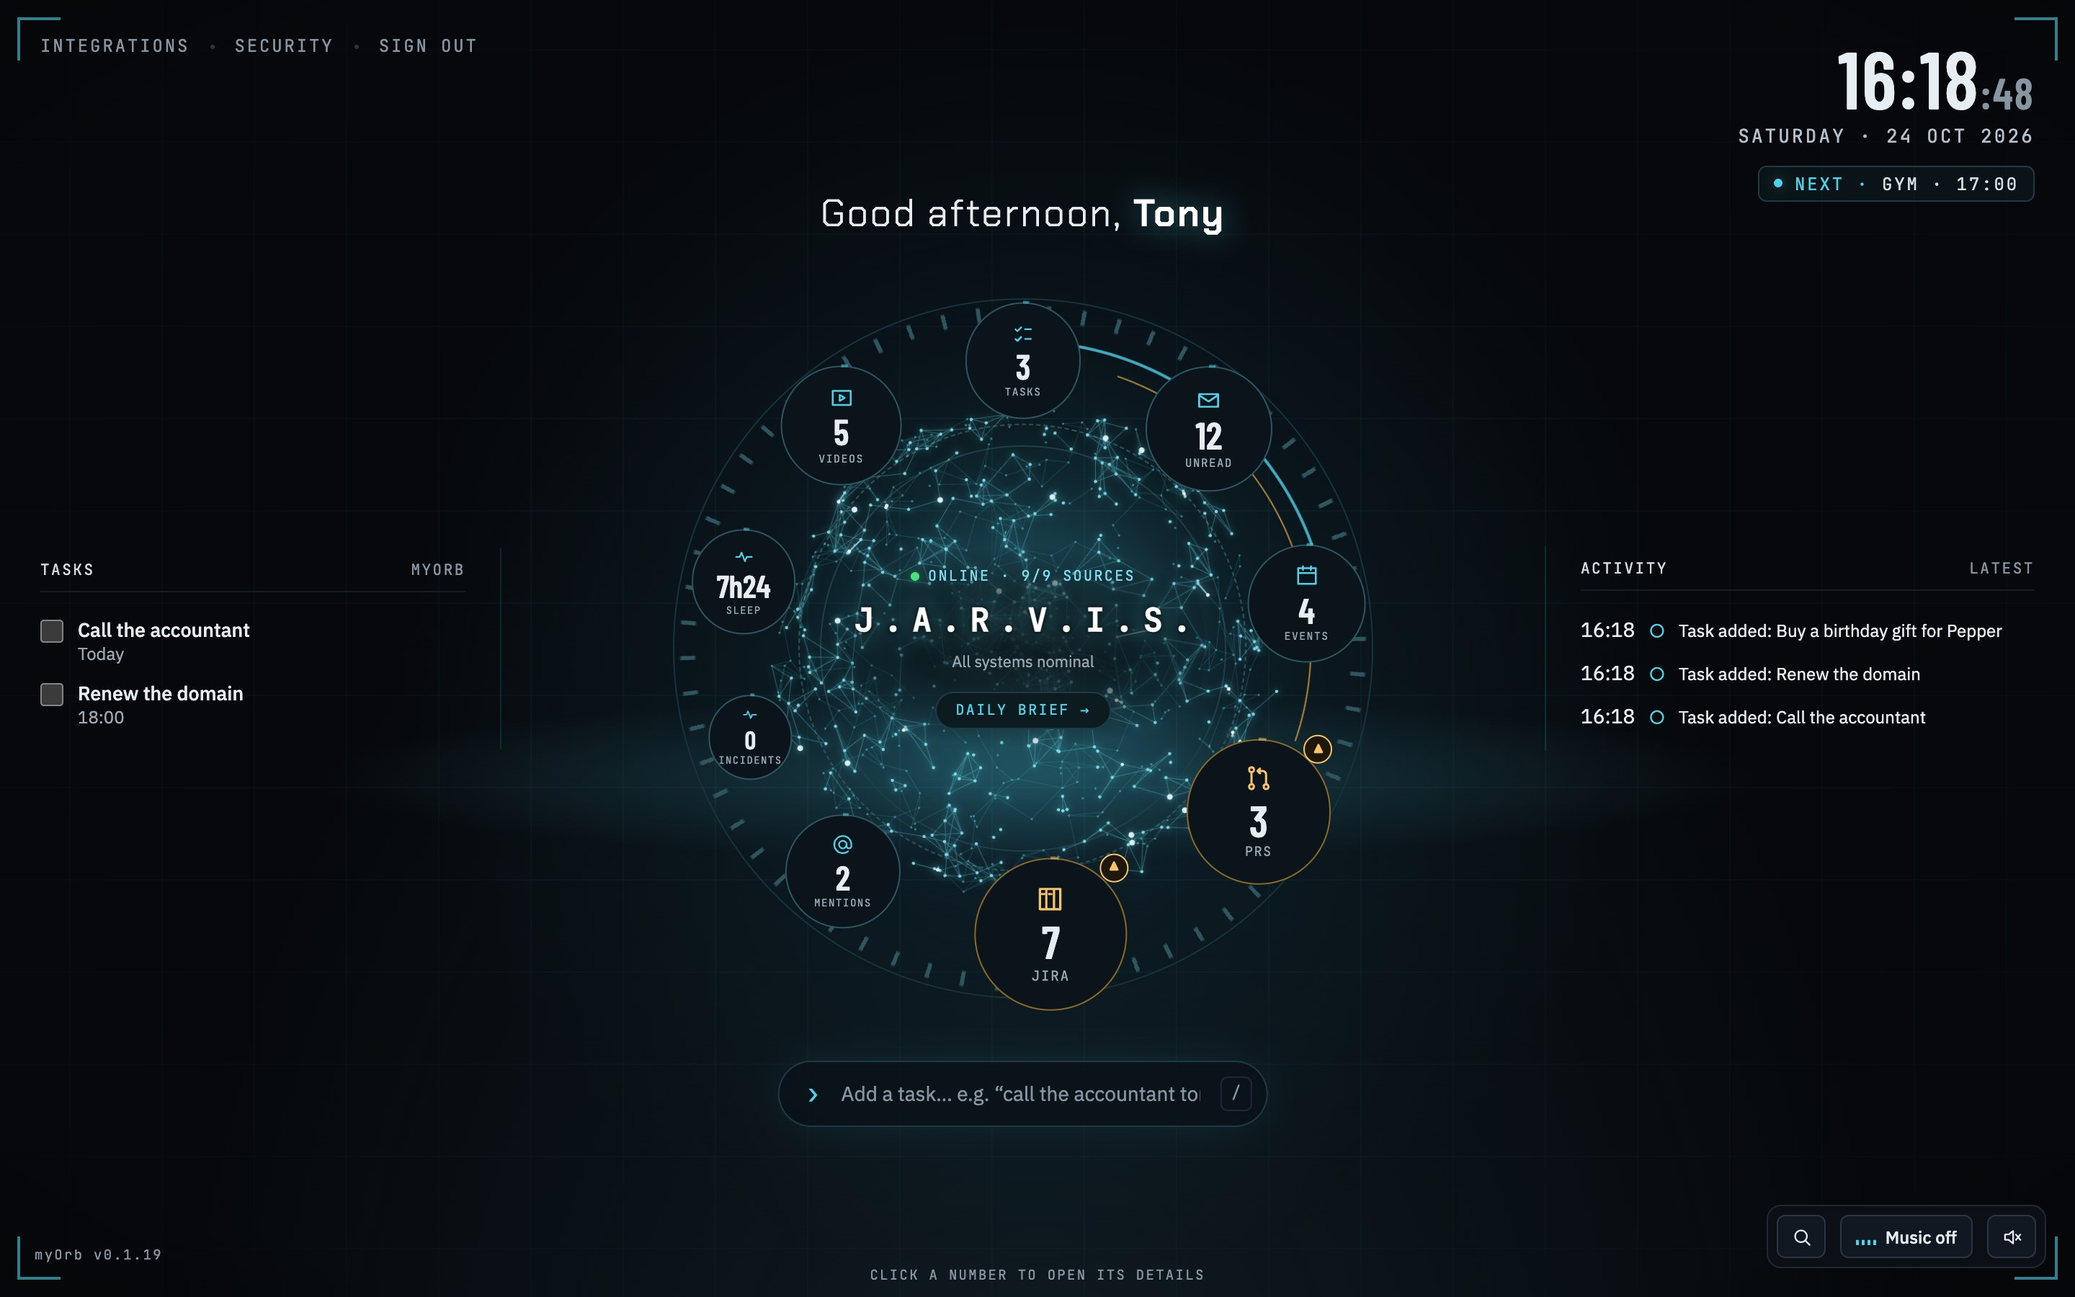
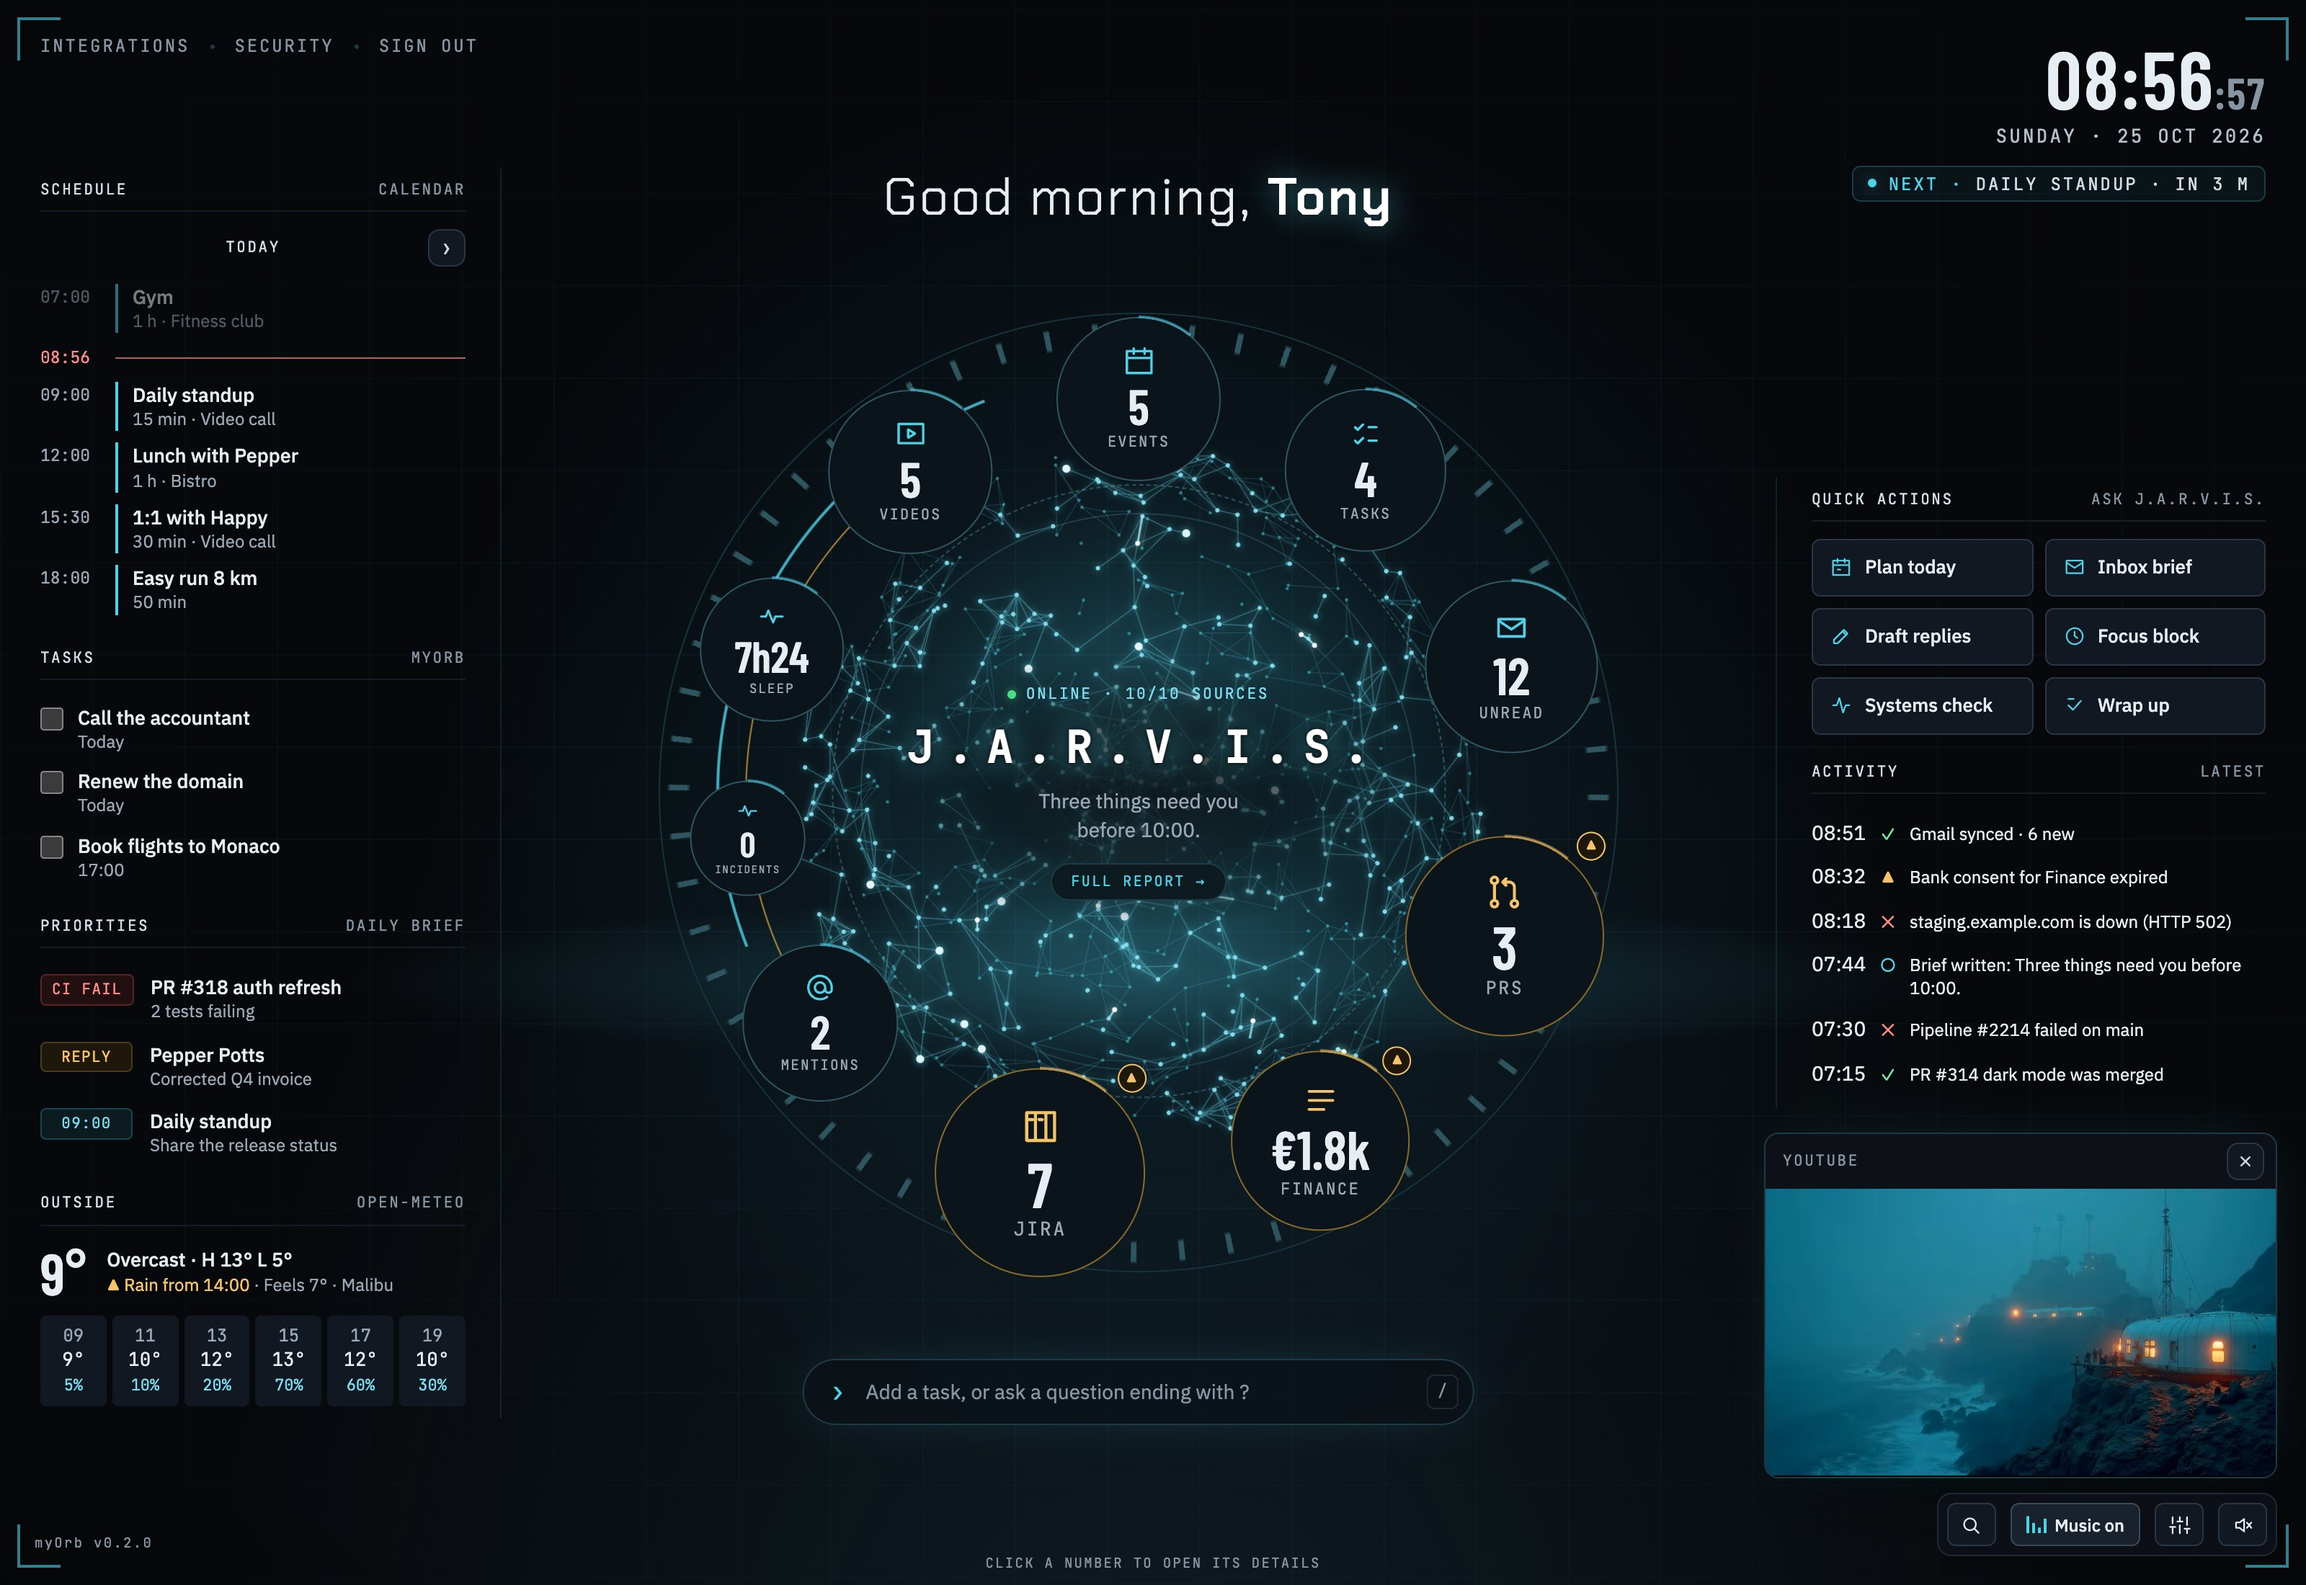
Version 0.2.0: priorities and quick actions on the welcome screen (#46)
- Priorities: today's brief's priorities in the side column, each opening
  the report (a built-in "brief" plugin).
- Quick actions: six common questions for Ask, one click away, shown when
  Claude is connected.
- The command line's placeholder fits the field.
- README: a new welcome screen screenshot with sample data.

Claude-Session: https://claude.ai/code/session_01WepqR9ZDDWQ5SWvBengdYi

diff --git a/src/myorb/web/templates/welcome.html b/src/myorb/web/templates/welcome.html
@@ -103,7 +103,7 @@
         <form class="command-bar" hx-post="/command" hx-target="#command-result" hx-on::after-request="if (event.detail.successful) this.reset()"{% if can_ask %} data-ask{% endif %}>
           <span class="command-prompt" aria-hidden="true">›</span>
           <label class="visually-hidden" for="command-input">{{ "Add a task or ask a question" if can_ask else "Add a task" }}</label>
-          <input id="command-input" name="text" placeholder="{% if can_ask %}Add a task, or ask {{ assistant }} something ending with ?{% else %}Add a task… e.g. “call the accountant tomorrow 10:00”{% endif %}" autocomplete="off" required>
+          <input id="command-input" name="text" placeholder="{% if can_ask %}Add a task, or ask a question ending with ?{% else %}Add a task, e.g. “call Anna tomorrow 10:00”{% endif %}" autocomplete="off" required>
           <kbd class="command-key" title="Press / to type here">/</kbd>
         </form>
         <div class="label command-result" id="command-result" role="status" aria-live="polite"></div>
@@ -145,6 +145,15 @@
     </div>
 
     <section class="side side-right" aria-label="Activity">
+      {% if can_ask %}
+      {# Questions asked often, one click away; each opens the Ask dialog with its answer. #}
+      <div class="side-head"><span class="label strong">Quick actions</span><span class="label">Ask {{ assistant }}</span></div>
+      <div class="quick-actions">
+        {% for label, question, path in quick_actions %}
+        <button type="button" class="btn quick-action" data-ask-quick="{{ question }}" title="{{ question }}"><svg width="15" height="15" viewBox="0 0 24 24" fill="none" stroke="currentColor" stroke-width="1.8" stroke-linecap="round" stroke-linejoin="round" aria-hidden="true"><path d="{{ path }}"/></svg>{{ label }}</button>
+        {% endfor %}
+      </div>
+      {% endif %}
       <div class="side-head"><span class="label strong">Activity</span><span class="label">Latest</span></div>
       <div hx-get="/activity" hx-trigger="load, every 60s, myorb:refresh from:body, myorb:brief from:body">
         <p class="t2">Loading…</p>

diff --git a/src/myorb/web/static/welcome.css b/src/myorb/web/static/welcome.css
@@ -1377,6 +1377,58 @@ button.row-btn {
   color: var(--fail);
 }
 
+/* Quick actions: questions for Ask, two to a row */
+
+.quick-actions {
+  display: grid;
+  grid-template-columns: repeat(2, minmax(0, 1fr));
+  gap: 8px;
+}
+
+.quick-action {
+  justify-content: flex-start;
+  gap: 9px;
+  min-width: 0;
+  height: 40px;
+  padding: 0 12px;
+  white-space: nowrap;
+}
+
+.quick-action svg {
+  flex: none;
+  color: var(--accent);
+}
+
+/* Priorities from today's brief; each opens the report */
+
+.priority {
+  display: flex;
+  gap: 12px;
+  align-items: flex-start;
+  width: 100%;
+  padding: 6px 0;
+  border: 0;
+  background: none;
+  color: inherit;
+  font: inherit;
+  text-align: left;
+  cursor: pointer;
+}
+
+.priority .badge {
+  flex: none;
+  justify-content: center;
+  min-width: 64px;
+}
+
+.priority-text {
+  min-width: 0;
+}
+
+.priority:hover .t1 {
+  color: var(--accent);
+}
+
 /* Brief: headline and button in the orb's core, and the report dialog */
 
 .core:has(.brief-headline) #core-line {

diff --git a/src/myorb/brief/templates/priorities.html b/src/myorb/brief/templates/priorities.html
@@ -1,0 +1,14 @@
+{% if brief %}
+{% for item in brief.content.priorities %}
+<button type="button" class="priority" data-open-report>
+  <span class="badge badge-{{ item.tone }}">{{ item.tag }}</span>
+  <span class="priority-text"><span class="t1">{{ item.title }}</span>{% if item.detail %}<span class="t2">{{ item.detail }}</span>{% endif %}</span>
+</button>
+{% else %}
+<p class="t2">Nothing needs you today.</p>
+{% endfor %}
+{% elif configured %}
+<p class="t2">No brief yet today.</p>
+{% else %}
+<p class="t2">Connect Claude for a daily brief with what needs you. <a href="/integrations/claude">Connect</a></p>
+{% endif %}

diff --git a/src/myorb/web/static/welcome.js b/src/myorb/web/static/welcome.js
@@ -574,6 +574,15 @@
     askQuestion(question);
   });
 
+  // A quick action asks its question in a new conversation.
+  document.addEventListener("click", (event) => {
+    const quick = event.target.closest("[data-ask-quick]");
+    if (!quick) return;
+    ask = { conversation: null, messages: [] };
+    saveAsk();
+    askQuestion(quick.dataset.askQuick);
+  });
+
   document.addEventListener("click", (event) => {
     if (!event.target.closest("[data-ask-new]")) return;
     ask = { conversation: null, messages: [] };

diff --git a/tests/test_brief.py b/tests/test_brief.py
@@ -10,6 +10,7 @@ from fastapi.testclient import TestClient
 from sqlalchemy import select
 
 from myorb.brief.models import Brief, ClaudeUsage
+from myorb.brief.plugin import BriefPlugin
 from myorb.brief.service import kind_for
 from myorb.brief.spend import cost_usd, tokens
 from myorb.brief.writer import BriefError, facts_prompt
@@ -283,6 +284,34 @@ def test_generate_brief(client: TestClient, claude: FakeClaude):
     assert "Water plants" in report
     assert 'data-brief-language="en"' in report
     assert "Claude Sonnet 5.5" in report
+
+
+def test_priorities_panel_shows_todays_brief(make_client: MakeClient, claude: FakeClaude):
+    client = make_client(
+        transport=httpx2.MockTransport(claude),
+        plugins={"tasks": TasksPlugin(), "brief": BriefPlugin()},
+    )
+    complete_setup(client)
+    assert "/panels/brief/priorities" in client.get("/").text
+    assert "Connect Claude" in client.get("/panels/brief/priorities").text
+
+    connect(client)
+    assert "No brief yet today." in client.get("/panels/brief/priorities").text
+    client.post("/brief/generate")
+    panel = client.get("/panels/brief/priorities").text
+    assert '<span class="badge badge-info">Today</span>' in panel
+    assert "Water plants" in panel and "From your list" in panel
+    assert "data-open-report" in panel
+
+    # Yesterday's brief is stale: its priorities are not shown.
+    async def age() -> None:
+        async with client.app.state.sessionmaker() as db:
+            for brief in await db.scalars(select(Brief)):
+                brief.created_at -= timedelta(days=1)
+            await db.commit()
+
+    client.portal.call(age)
+    assert "No brief yet today." in client.get("/panels/brief/priorities").text
 
 
 @pytest.mark.parametrize(

diff --git a/src/myorb/web/routes.py b/src/myorb/web/routes.py
@@ -98,6 +98,37 @@ async def service_worker() -> Response:
     return Response(script, media_type="text/javascript", headers={"Cache-Control": "no-cache"})
 
 
+# Label, the question it asks, and its icon's path.
+QUICK_ACTIONS = [
+    (
+        "Plan today",
+        "Plan my day: what should I do first, and when?",
+        "M3 5h18v16H3zM3 10h18M8 3v4M16 3v4M8 15h3",
+    ),
+    ("Inbox brief", "What in my inbox needs me today?", "M3 5h18v14H3zM3 7l9 6 9-6"),
+    (
+        "Draft replies",
+        "Which emails should I reply to today, and what could I write?",
+        "M4 20h4L19 9l-4-4L4 16zM13.5 6.5l4 4",
+    ),
+    (
+        "Focus block",
+        "When can I focus for an hour or more today?",
+        "M12 3a9 9 0 1 0 0 18 9 9 0 0 0 0-18zM12 7v5l3 2",
+    ),
+    (
+        "Systems check",
+        "Are my websites and builds healthy? What is failing?",
+        "M3 12h4l3-8 4 16 3-8h4",
+    ),
+    (
+        "Wrap up",
+        "What is still open from today, and what should move to tomorrow?",
+        "M5 12l5 5 9-10M5 5h6",
+    ),
+]
+
+
 @router.get("/", response_class=HTMLResponse)
 async def welcome(request: Request, db: Annotated[AsyncSession, Depends(get_db)]) -> HTMLResponse:
     panels = [(plugin, panel) for plugin in ordered_plugins(request) for panel in plugin.panels()]
@@ -112,6 +143,7 @@ async def welcome(request: Request, db: Annotated[AsyncSession, Depends(get_db)]
             "slots": widget_slots(request),
             # Questions ending with "?" go to Claude when it is connected.
             "can_ask": await request.app.state.brief.settings() is not None,
+            "quick_actions": QUICK_ACTIONS,
         },
     )
 

diff --git a/src/myorb/brief/plugin.py b/src/myorb/brief/plugin.py
@@ -1,0 +1,40 @@
+from datetime import UTC
+from pathlib import Path
+from typing import Any
+
+from sqlalchemy import select
+
+from myorb.brief.models import Brief
+from myorb.brief.service import PROVIDER
+from myorb.plugins.base import Panel, Plugin, WidgetContext
+
+
+class BriefPlugin(Plugin):
+    """What needs the user today, from the brief Claude wrote, in the side column."""
+
+    id = "brief"
+    name = "Daily brief"
+    templates_dir = Path(__file__).parent / "templates"
+    # After the schedule and tasks, before the weather.
+    position = 40
+
+    def panels(self) -> list[Panel]:
+        return [
+            Panel(id="priorities", title="Priorities", template="priorities.html", load=self._load)
+        ]
+
+    async def _load(self, context: WidgetContext) -> dict[str, Any]:
+        async with context.sessionmaker() as db:
+            brief = await db.scalar(select(Brief).order_by(Brief.created_at.desc()).limit(1))
+        # Yesterday's priorities are stale by morning: only today's brief is shown. SQLite
+        # returns the time without its zone, in UTC.
+        today = brief is not None and (
+            brief.created_at.replace(tzinfo=brief.created_at.tzinfo or UTC)
+            .astimezone(context.now.tzinfo)
+            .date()
+            == context.now.date()
+        )
+        return {
+            "configured": await context.connections.settings(PROVIDER) is not None,
+            "brief": brief if today else None,
+        }

diff --git a/tests/test_ask.py b/tests/test_ask.py
@@ -36,10 +36,13 @@ def text_of(lines: list[dict]) -> str:
 def test_the_command_line_offers_ask_only_with_claude(client: TestClient):
     page = client.get("/").text
     assert "data-ask" not in page and 'id="ask"' not in page
+    assert "Quick actions" not in page
     connect(client)
     page = client.get("/").text
     assert 'class="command-bar"' in page and "data-ask" in page
-    assert 'id="ask"' in page and "something ending with ?" in page
+    assert 'id="ask"' in page and "ask a question ending with ?" in page
+    # Quick actions ask their question; without Claude they are not offered.
+    assert 'data-ask-quick="Plan my day: what should I do first, and when?"' in page
 
 
 def test_answer_is_streamed_from_the_dashboard(client: TestClient, claude: FakeClaude):

diff --git a/ROADMAP.md b/ROADMAP.md
@@ -47,6 +47,7 @@ Built as custom plugins for the author's own invoicing system and wallet app.
 - [x] **Actions in chat:** Claude proposes, you confirm: tasks, YouTube videos seen, uptime monitors, Jira status and comments, Asana tasks, approving and commenting GitHub pull requests; most can be undone
 - [ ] **Actions in chat, Google:** a draft reply in Gmail, calendar events (need wider Google permissions)
 - [ ] **Actions:** reply to an email (as a Gmail draft), add a TODO, create a calendar event; disabled until enabled in settings, each confirmed in the UI
+- [x] **Quick actions:** common questions for Ask (plan today, inbox brief, focus block…) one click away
 - [ ] **Triage:** mark items as done or snooze them for later
 - [ ] **Command palette:** quick search and commands with ⌘K
 - [ ] **Voice control:** talk to myOrb using speech-to-text and text-to-speech

diff --git a/README.md b/README.md
@@ -4,7 +4,7 @@ myOrb is your personal AI-powered daily briefing dashboard. It connects to email
 
 > 🚧 Work in progress.
 
-![myOrb welcome screen: the orb with numbers from email, calendar, tasks, pull requests, Jira, Slack, uptime, sleep and YouTube, today's tasks on the left and recent activity on the right](https://raw.githubusercontent.com/eriktelepovsky/myorb/main/docs/images/welcome.jpg)
+![myOrb welcome screen: the orb with numbers from email, calendar, tasks, pull requests, Jira, finance, Slack, uptime, sleep and YouTube; today's schedule, tasks, priorities from the brief and the weather on the left; quick actions, recent activity and a YouTube player on the right](https://raw.githubusercontent.com/eriktelepovsky/myorb/main/docs/images/welcome.jpg)
 
 *The welcome screen, with sample data.*
 
